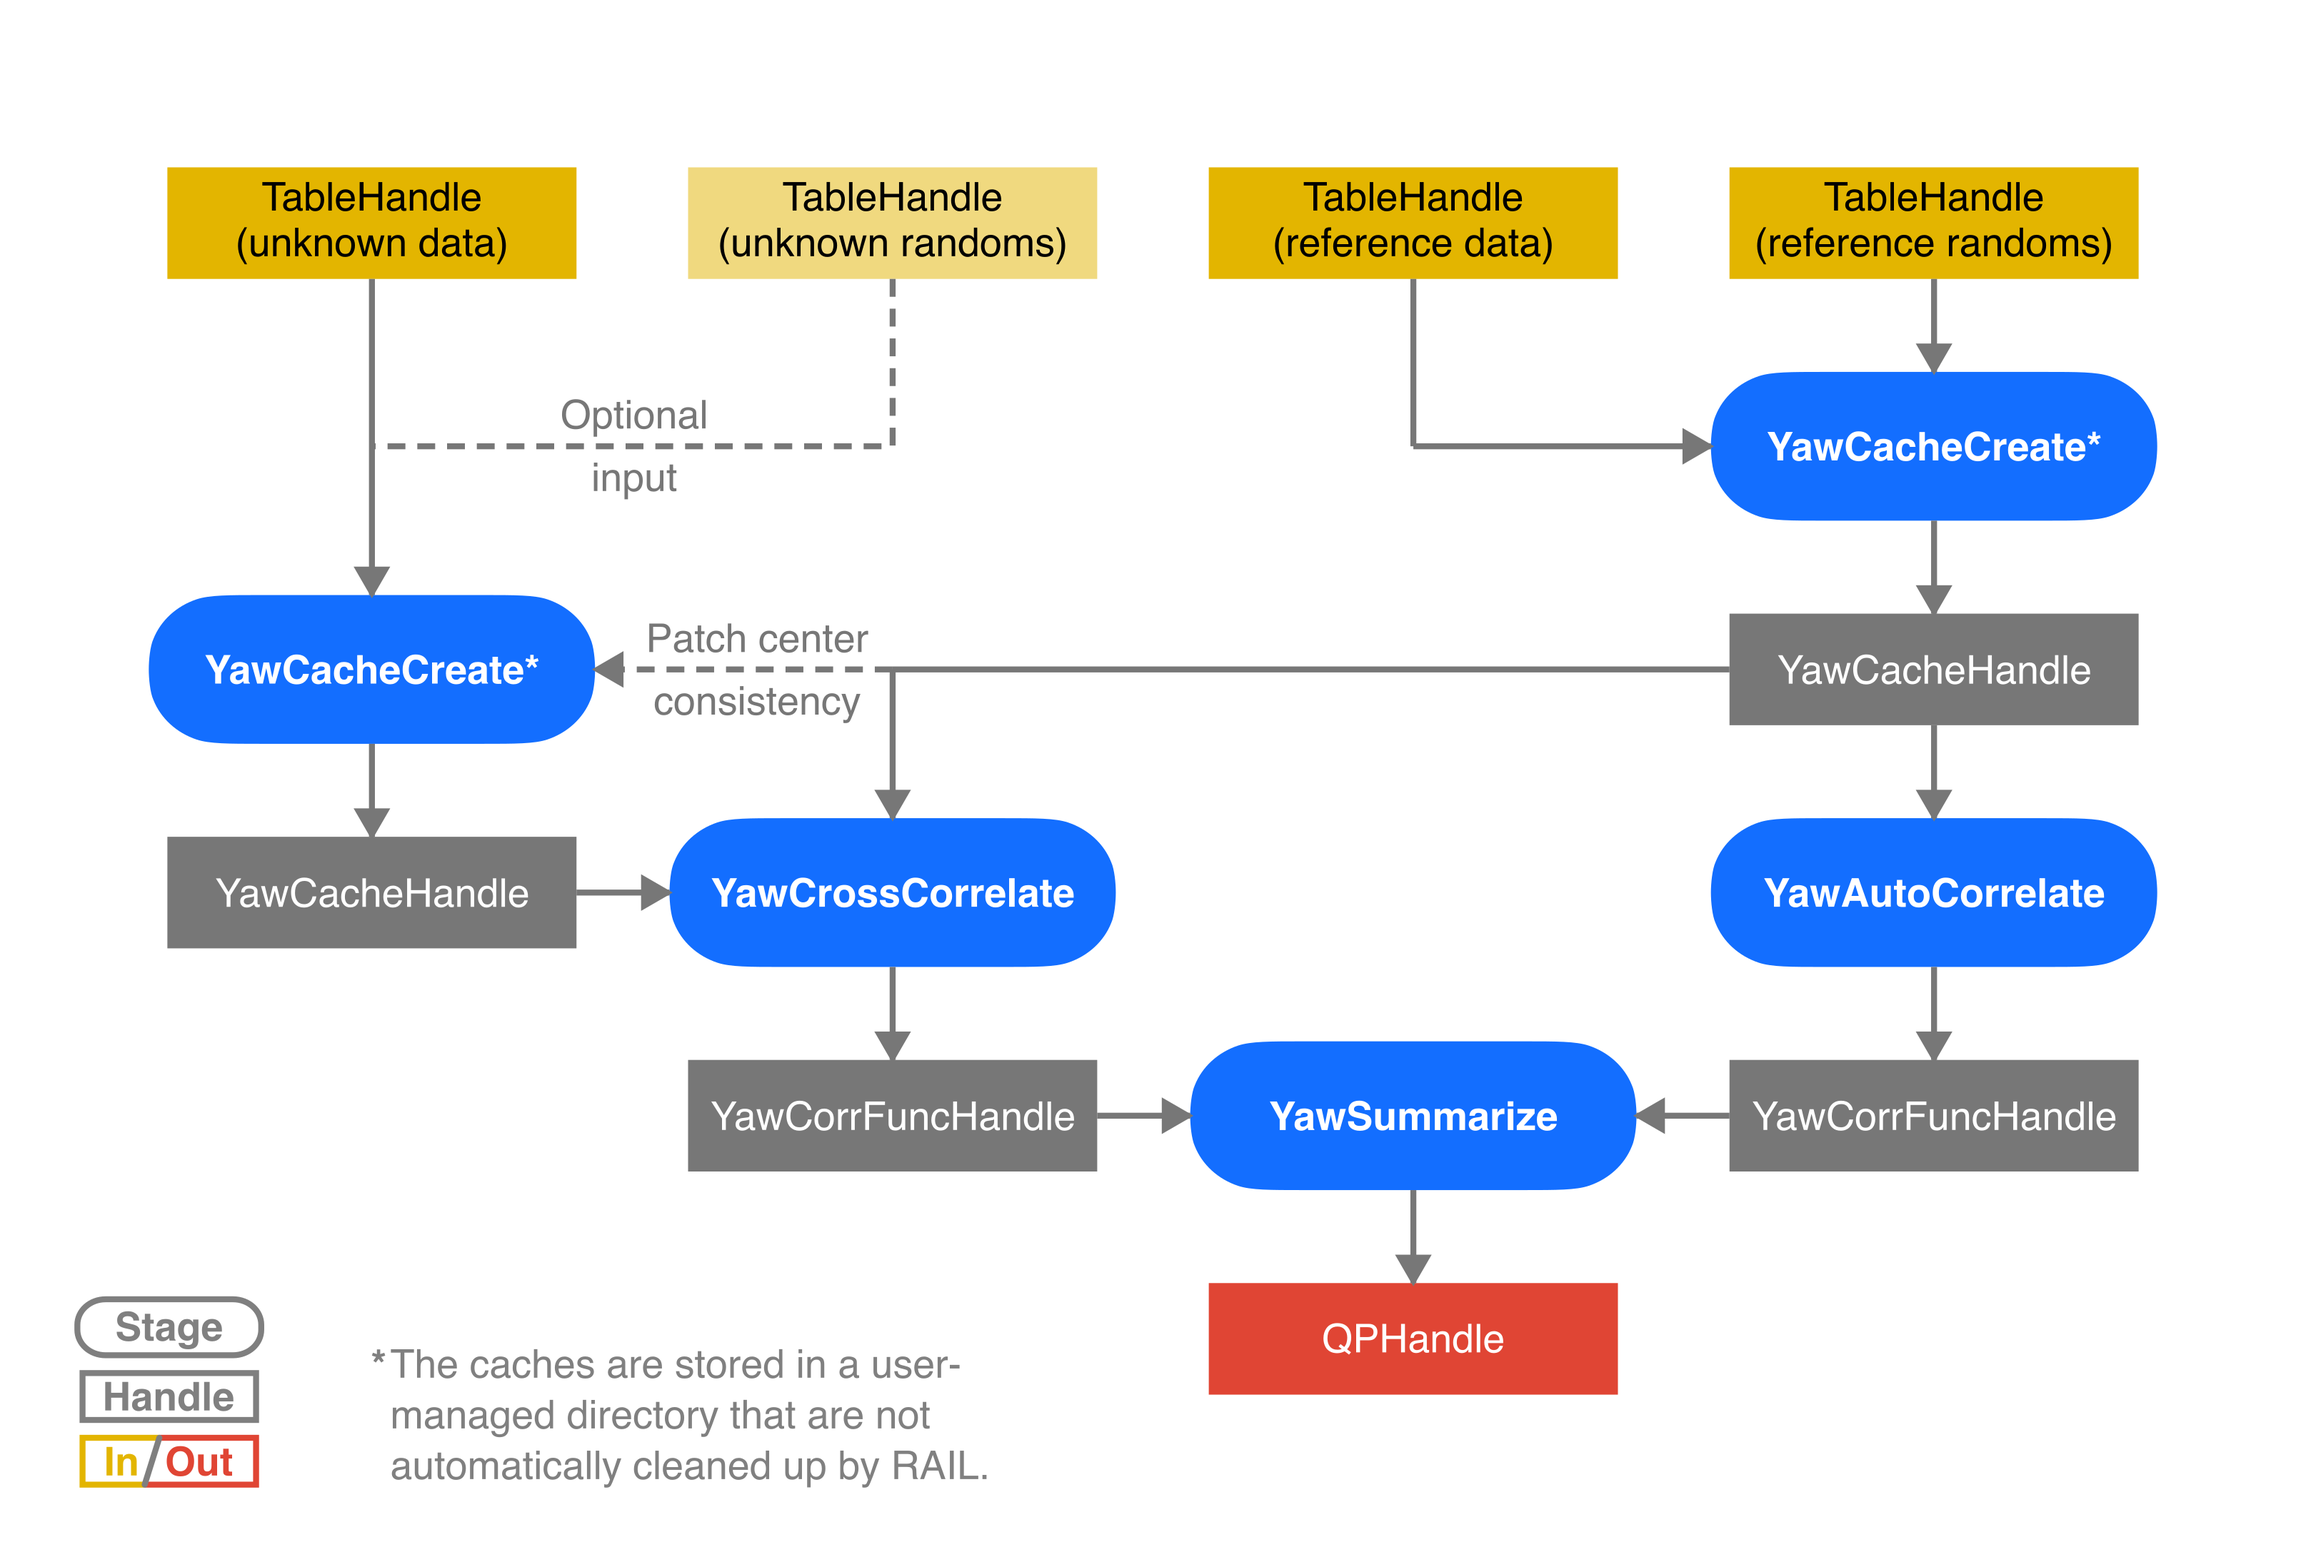
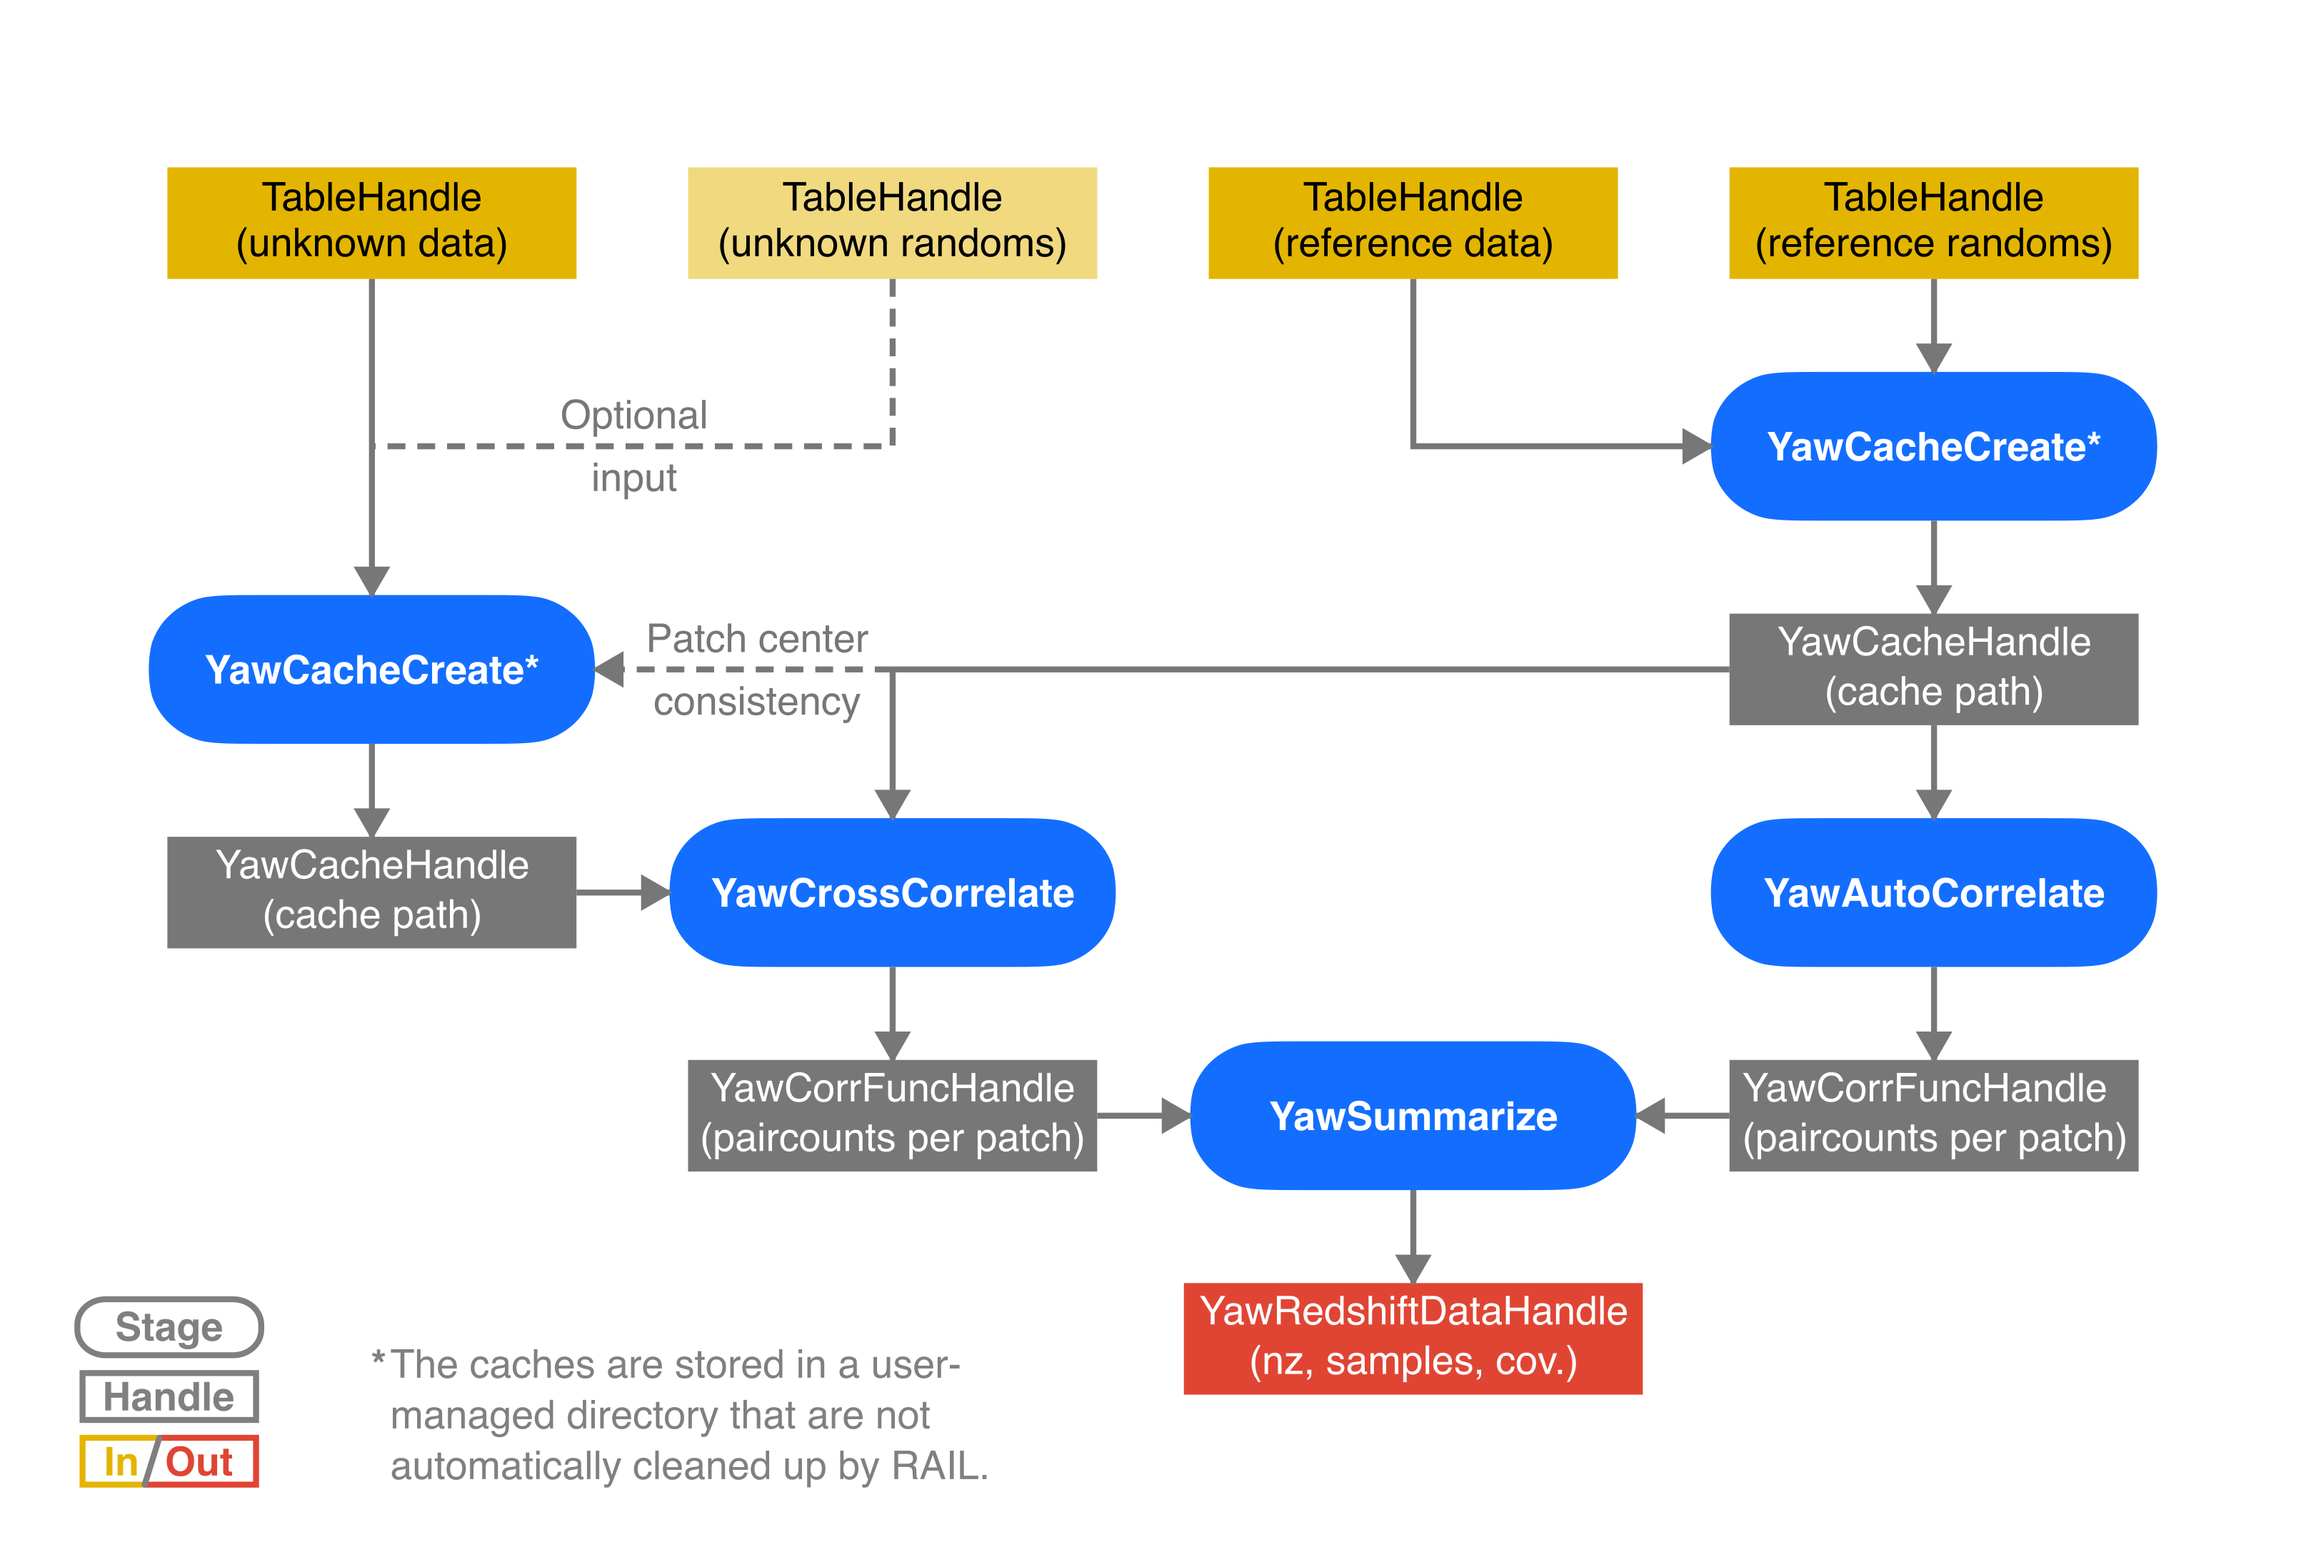
updated stage network, removed old tests

diff --git a/tests/yaw_rail/test_summarize.py b/tests/yaw_rail/test_summarize.py
@@ -1,7 +1,5 @@
 from __future__ import annotations
 
-import numpy as np
-from numpy.testing import assert_array_almost_equal
 from pytest import fixture
 
 from yaw import RedshiftData
@@ -13,50 +11,6 @@ from rail.yaw_rail import summarize
 @fixture(name="redshift_data")
 def fixture_redshift_data() -> RedshiftData:
     return w_sp.sample()
-
-
-@fixture(name="redshift_data_nfin")
-def fixture_redshift_data_nfin() -> RedshiftData:
-    nz = w_sp.sample()
-    # insert values that are not finite
-    data = nz.data
-    data[0] = np.nan
-    data[-1] = np.inf
-
-    samples = nz.samples
-    samples[:, 0] = np.nan
-    samples[:, -1] = np.inf
-
-    return RedshiftData(
-        binning=nz.get_binning(),
-        data=data,
-        samples=samples,
-        method=nz.method,
-        info=nz.info,
-    )
-
-
-def test_clip_negative_values(redshift_data_nfin):
-    clipped = summarize.clip_negative_values(redshift_data_nfin)
-
-    data_bad = (redshift_data_nfin.data < 0.0) | ~np.isfinite(redshift_data_nfin.data)
-    assert np.all(clipped.data[data_bad] == 0.0)
-
-    samples_bad = (redshift_data_nfin.samples < 0.0) | ~np.isfinite(
-        redshift_data_nfin.samples
-    )
-    assert np.all(clipped.samples[samples_bad] == 0.0)
-
-
-def test_redshift_data_to_qp(redshift_data_nfin):
-    ensemble = summarize.redshift_data_to_qp(redshift_data_nfin)
-    pdfs = ensemble.pdf(redshift_data_nfin.mids)
-
-    nz_clipped = summarize.clip_negative_values(redshift_data_nfin)
-    nz_mids = nz_clipped.mids
-    for pdf, sample in zip(pdfs, nz_clipped.samples):
-        norm = np.trapz(sample, nz_mids)
-        assert_array_almost_equal(pdf, sample / norm)
 
 
 def test_YawRedshiftDataHandle(tmp_path, redshift_data):

diff --git a/src/rail/yaw_rail/summarize.py b/src/rail/yaw_rail/summarize.py
@@ -12,11 +12,8 @@ correlation amplitudes and setting them to zero.
 from __future__ import annotations
 
 import pickle
-from functools import partial
 from typing import TextIO
 
-import numpy as np
-import qp
 from yaw import RedshiftData
 
 from ceci.config import StageParameter
@@ -47,30 +44,6 @@ config_yaw_resampling = {
     p: create_param("resampling", p)
     for p in ("crosspatch",)
 }
-
-clip_neg = partial(np.maximum, 0.0)
-nan_inf_to_num = partial(np.nan_to_num, nan=0.0, posinf=0.0, neginf=0.0)
-
-
-def clip_negative_values(nz: RedshiftData) -> RedshiftData:
-    """Replace all non-finite and negative values in a `yaw.RedshiftData`
-    instance with zeros."""
-    return RedshiftData(
-        binning=nz.get_binning(),
-        data=clip_neg(nan_inf_to_num(nz.data)),
-        samples=clip_neg(nan_inf_to_num(nz.samples)),
-        method=nz.method,
-        info=nz.info,
-    )
-
-
-def redshift_data_to_qp(nz: RedshiftData) -> qp.Ensemble:
-    """Convert a `yaw.RedshiftData` instance to a `qp.Ensemble` by clipping
-    negative values and normalising the spatial samples to PDFs."""
-    samples = clip_negative_values(nz).samples
-    for i, sample in enumerate(samples):
-        samples[i] = sample / np.trapz(sample, x=nz.mids)
-    return qp.Ensemble(qp.hist, data=dict(bins=nz.edges, pdfs=samples))
 
 
 class YawRedshiftDataHandle(DataHandle):

diff --git a/src/rail/pipelines/estimation/plot_output.py b/src/rail/pipelines/estimation/plot_output.py
@@ -5,4 +5,5 @@ import os
 
 with open(os.path.join("data", "output_summarize.pkl"), "rb") as f:
     ncc = pickle.load(f)
-ncc.plot(zero_line=True).figure.savefig(os.path.join("data", "checkplot.png"))
+ax = ncc.plot(zero_line=True)
+ax.figure.savefig(os.path.join("data", "checkplot.png"))
